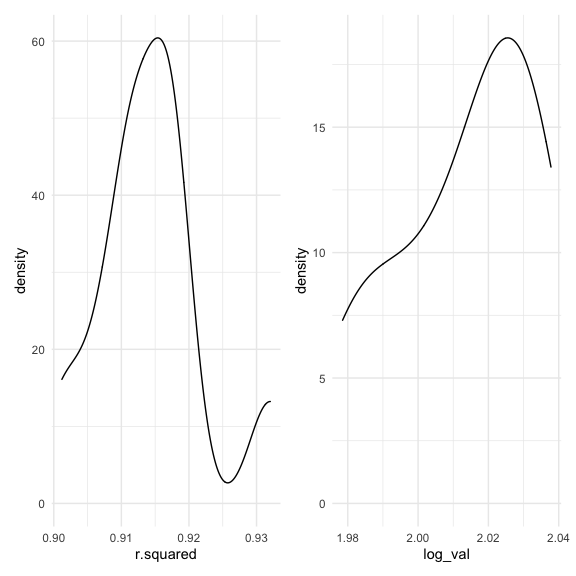
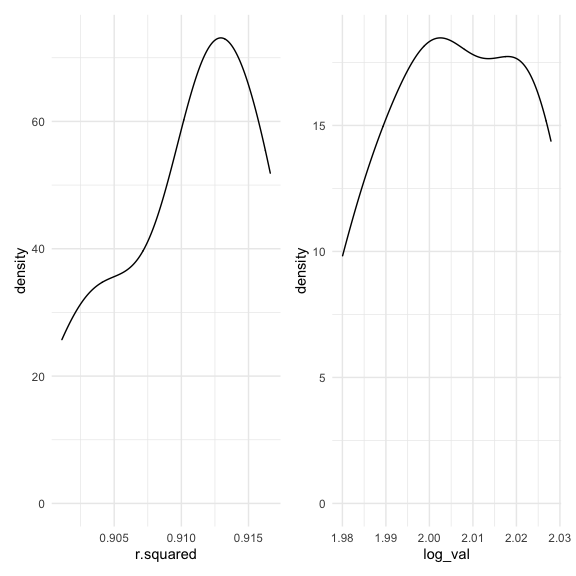
P3. bootstrap 10 times, quantiles calculated

diff --git a/p8105_hw6_np2619.md b/p8105_hw6_np2619.md
@@ -385,10 +385,17 @@ rsquared + logval
 #### Quantiles
 
 ``` r
-weather_boot_ci = weather_boot_results %>% 
-  select(num, term, estimate, r.squared) %>% 
+weather_boot_quantiles = weather_boot_estimates %>% 
   summarize(
-    ci_lower = quantile(r.squared, 0.025),
-    ci_upper = quantile(r.squared, 0.075)
+    ci_lower_r = quantile(r.squared, 0.025),
+    ci_upper_r = quantile(r.squared, 0.075),
+    ci_lower_log = quantile(log_val, 0.025),
+    ci_upper_log = quantile(log_val, 0.075)
   )
+
+knitr::kable(weather_boot_quantiles)
 ```
+
+| ci\_lower\_r | ci\_upper\_r | ci\_lower\_log | ci\_upper\_log |
+| -----------: | -----------: | -------------: | -------------: |
+|    0.9017204 |    0.9029497 |        1.98156 |       1.984588 |
